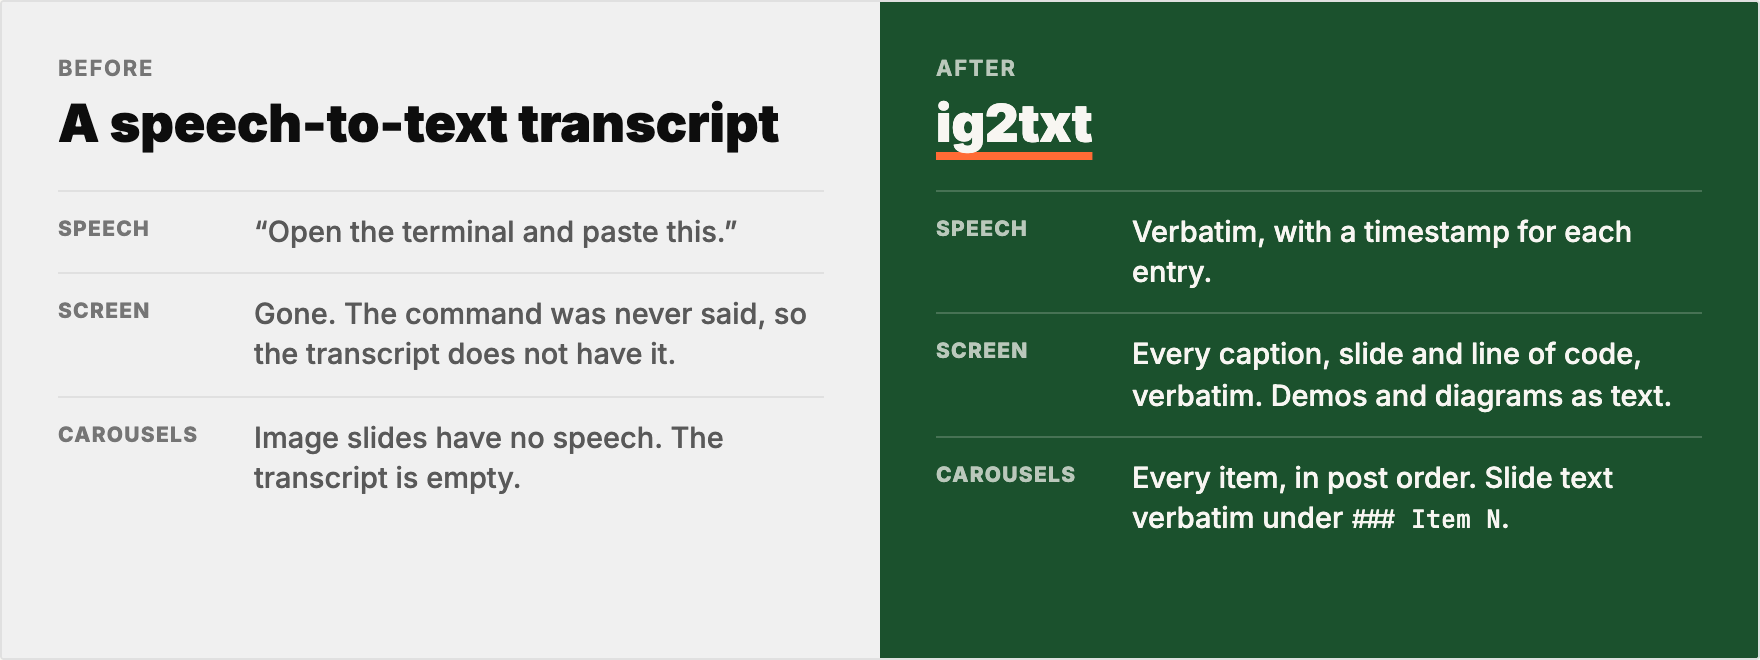
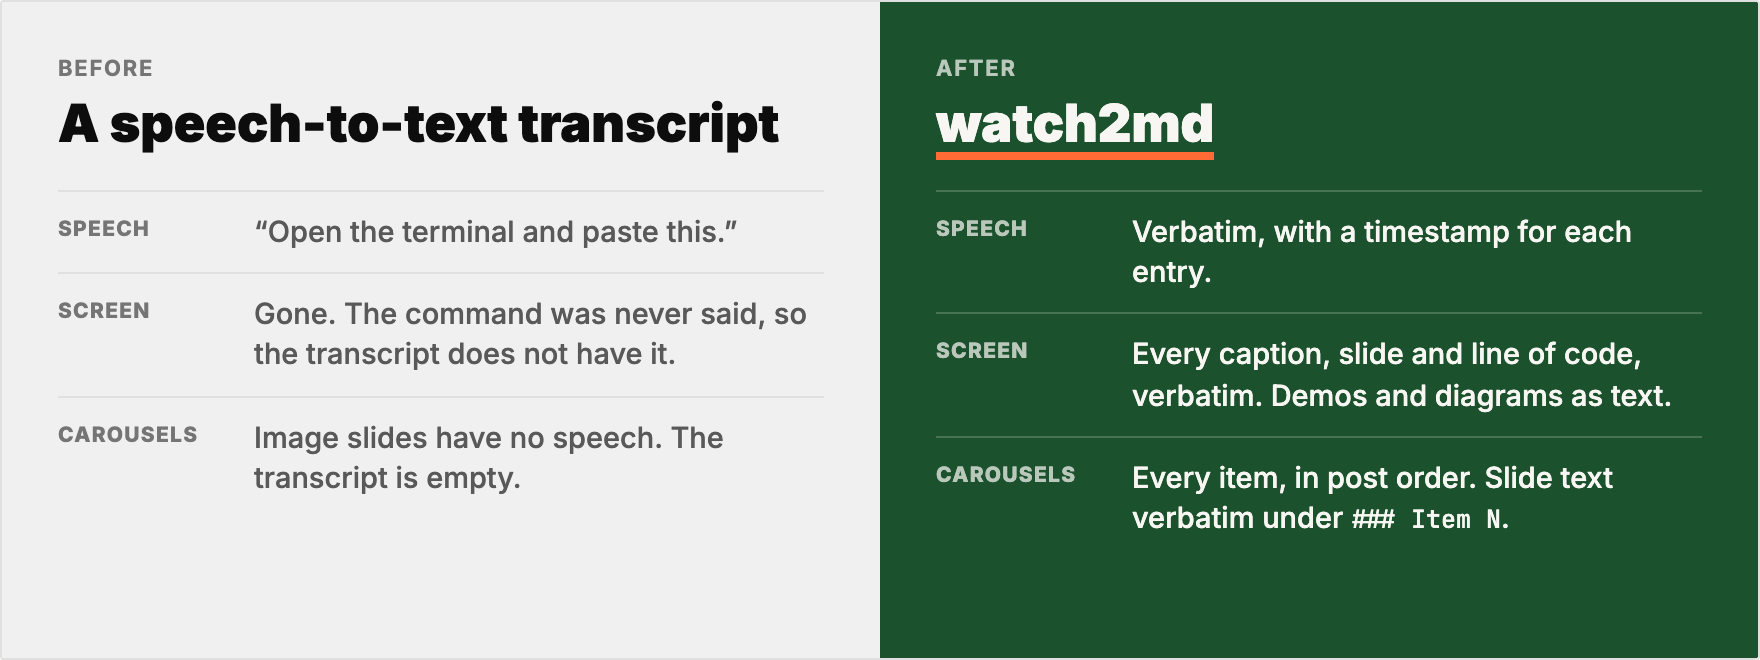
Rename to watch2md

Changed region(s): [[0.5312, 0.1515, 0.6875, 0.2424]]

diff --git a/README.md b/README.md
@@ -1,4 +1,4 @@
-<h1 align="center">ig2txt</h1>
+<h1 align="center">watch2md</h1>
 
 <p align="center">
   <strong>Turn short videos into knowledge your AI agent can use: what is said, and what is only on screen.</strong>
@@ -13,12 +13,12 @@
 </p>
 
 <p align="center">
-  <img src="assets/hero.png" width="880" alt="An invented example reel, 38 seconds. On screen: the caption 'Disk full? 1 command' and a terminal with the command du -sh ~/* | sort -h | tail -5, which lists five folders by size, with Downloads last at 48G. The speech only says: Open the terminal and paste this. ig2txt turns the reel link into a note. Its Timeline has each SAID, ON SCREEN and SHOWN entry with a timestamp. Its 'Shown, not said' section has the command and the 48G Downloads folder. The command is never said. The note has it.">
+  <img src="assets/hero.png" width="880" alt="An invented example reel, 38 seconds. On screen: the caption 'Disk full? 1 command' and a terminal with the command du -sh ~/* | sort -h | tail -5, which lists five folders by size, with Downloads last at 48G. The speech only says: Open the terminal and paste this. watch2md turns the reel link into a note. Its Timeline has each SAID, ON SCREEN and SHOWN entry with a timestamp. Its 'Shown, not said' section has the command and the 48G Downloads folder. The command is never said. The note has it.">
 </p>
 
-Short videos teach a lot: a prompt, a command, a framework on a slide, a tool in a demo. Much of it is only on screen. Give your agent the link to a reel, a TikTok, a YouTube video or an Instagram carousel. Your agent runs `ig2txt "<url>"` and gets a markdown note with the speech and with all that the video shows: captions, slides, code, UI demos and diagrams. Then your agent puts that knowledge into your skills, playbooks and notes.
+Short videos teach a lot: a prompt, a command, a framework on a slide, a tool in a demo. Much of it is only on screen. Give your agent the link to a reel, a TikTok, a YouTube video or an Instagram carousel. Your agent runs `watch2md "<url>"` and gets a markdown note with the speech and with all that the video shows: captions, slides, code, UI demos and diagrams. Then your agent puts that knowledge into your skills, playbooks and notes.
 
-A transcript tool hears the speech only. In a reel that says *"paste this"* and shows the command on screen, the transcript has no command. An image carousel has no speech, so a transcript is empty. ig2txt sends every item to Gemini, which watches the video and reads each slide.
+A transcript tool hears the speech only. In a reel that says *"paste this"* and shows the command on screen, the transcript has no command. An image carousel has no speech, so a transcript is empty. watch2md sends every item to Gemini, which watches the video and reads each slide.
 
 > **AI agents:** read [`AGENTS.md`](AGENTS.md). It is the complete protocol.
 
@@ -27,13 +27,13 @@ A transcript tool hears the speech only. In a reel that says *"paste this"* and 
 ## Before and after
 
 <p align="center">
-  <img src="assets/before-after.png" width="880" alt="Before: a speech-to-text transcript. Speech: Open the terminal and paste this. Screen: gone, the command was never said, so the transcript does not have it. Carousels: image slides have no speech, so the transcript is empty. After: ig2txt. Speech: verbatim, with a timestamp for each entry. Screen: every caption, slide and line of code, verbatim, and demos and diagrams as text. Carousels: every item, in post order, with slide text verbatim under ### Item N.">
+  <img src="assets/before-after.png" width="880" alt="Before: a speech-to-text transcript. Speech: Open the terminal and paste this. Screen: gone, the command was never said, so the transcript does not have it. Carousels: image slides have no speech, so the transcript is empty. After: watch2md. Speech: verbatim, with a timestamp for each entry. Screen: every caption, slide and line of code, verbatim, and demos and diagrams as text. Carousels: every item, in post order, with slide text verbatim under ### Item N.">
 </p>
 
 ## How it works
 
 <p align="center">
-  <img src="assets/how-it-works.png" width="880" alt="Four steps. 1, you or your agent give ig2txt a link. 2, ig2txt downloads it: Instagram through gallery-dl, videos and images, other sites through yt-dlp up to 720p, with browser cookies if the site needs a login. 3, Gemini watches every item in one request, in post order, at high resolution. 4, ig2txt writes one markdown file in your notes folder and deletes the downloads and the Gemini uploads. Fallback: with no Gemini key, or when video mode fails, ig2txt transcribes the speech with Whisper and marks the note mode: audio.">
+  <img src="assets/how-it-works.png" width="880" alt="Four steps. 1, you or your agent give watch2md a link. 2, watch2md downloads it: Instagram through gallery-dl, videos and images, other sites through yt-dlp up to 720p, with browser cookies if the site needs a login. 3, Gemini watches every item in one request, in post order, at high resolution. 4, watch2md writes one markdown file in your notes folder and deletes the downloads and the Gemini uploads. Fallback: with no Gemini key, or when video mode fails, watch2md transcribes the speech with Whisper and marks the note mode: audio.">
 </p>
 
 ```
@@ -76,7 +76,7 @@ The prompt tells Gemini to write `[illegible]` for text it cannot read, and neve
 
 ## Who it is for
 
-| You | You do today | ig2txt adds |
+| You | You do today | watch2md adds |
 |---|---|---|
 | Build AI skills, prompts and playbooks | You watch a video, then retype the steps by hand | A note your agent turns into a skill or a playbook entry |
 | Use an AI agent every day | Your agent cannot open a video link | One command that your agent runs from any folder |
@@ -90,14 +90,14 @@ You need `bash`, `curl`, `jq`, `ffmpeg`, `yt-dlp`, and `gallery-dl` for Instagra
 
 ```sh
 brew install jq ffmpeg yt-dlp gallery-dl   # Linux: your package manager, and pip install yt-dlp gallery-dl
-git clone https://github.com/4arkin/ig2txt.git
-ln -s "$PWD/ig2txt/ig2txt" /opt/homebrew/bin/ig2txt   # or /usr/local/bin, any folder always on PATH
+git clone https://github.com/4arkin/watch2md.git
+ln -s "$PWD/watch2md/watch2md" /opt/homebrew/bin/watch2md   # or /usr/local/bin, any folder always on PATH
 ```
 
 Get a Gemini API key at https://aistudio.google.com/apikey. On macOS, keep it in the Keychain, where agent shells can read it:
 
 ```sh
-security add-generic-password -a "$USER" -s ig2txt-gemini-api-key -w
+security add-generic-password -a "$USER" -s watch2md-gemini-api-key -w
 ```
 
 Elsewhere, export `GEMINI_API_KEY`.
@@ -105,9 +105,9 @@ Elsewhere, export `GEMINI_API_KEY`.
 ## Use
 
 ```sh
-ig2txt "https://www.instagram.com/reel/<id>/"
-ig2txt "https://www.instagram.com/p/<id>/"    # carousel: videos, images, or both
-ig2txt --audio-only "<url>"                   # speech only, through OpenAI Whisper
+watch2md "https://www.instagram.com/reel/<id>/"
+watch2md "https://www.instagram.com/p/<id>/"    # carousel: videos, images, or both
+watch2md --audio-only "<url>"                   # speech only, through OpenAI Whisper
 ```
 
 ### Let your agent use it
@@ -116,7 +116,7 @@ Paste this into `CLAUDE.md`, `AGENTS.md` or `GEMINI.md` in your home or project 
 
 ```markdown
 ## Video URLs
-Any Instagram post, reel or carousel (videos, images or both), and any TikTok / YouTube / LinkedIn / X video URL → `ig2txt "<url>"` via the shell, from any folder. Never a scraper or the browser.
+Any Instagram post, reel or carousel (videos, images or both), and any TikTok / YouTube / LinkedIn / X video URL → `watch2md "<url>"` via the shell, from any folder. Never a scraper or the browser.
 ```
 
 Then send a link to your agent. The full protocol is in [AGENTS.md](AGENTS.md).
@@ -125,11 +125,11 @@ Then send a link to your agent. The full protocol is in [AGENTS.md](AGENTS.md).
 
 | Variable | Default | Does |
 |---|---|---|
-| `GEMINI_API_KEY` | Keychain `ig2txt-gemini-api-key` | Video mode. With no key, ig2txt uses audio-only mode. |
+| `GEMINI_API_KEY` | Keychain `watch2md-gemini-api-key` | Video mode. With no key, watch2md uses audio-only mode. |
 | `OPENAI_API_KEY` | none | Audio-only mode, and the fallback when video mode fails. |
-| `IG2TXT_OUT` | current folder | Where notes go. |
-| `IG2TXT_BROWSER` | `chrome` | Browser for login cookies (`brave`, `firefox`, `edge`, `safari`). Empty turns the cookie retry off. |
-| `IG2TXT_GEMINI_MODEL` | `gemini-flash-latest` | Gemini model. |
+| `WATCH2MD_OUT` | current folder | Where notes go. |
+| `WATCH2MD_BROWSER` | `chrome` | Browser for login cookies (`brave`, `firefox`, `edge`, `safari`). Empty turns the cookie retry off. |
+| `WATCH2MD_GEMINI_MODEL` | `gemini-flash-latest` | Gemini model. |
 
 ## Cost
 
@@ -141,16 +141,16 @@ An 80-second reel is about 45K input tokens on Gemini Flash, roughly $0.05. An 8
 A transcript has the speech only. The command in a coding reel, the text on a slide and the numbers in a demo are often on screen and not in the speech. Those go to the "Shown, not said" section.
 
 **Does it work on image carousels?**
-Yes. ig2txt downloads every Instagram post with gallery-dl, so image slides, video items and mixed carousels all work. Each item gets a `### Item N` block, and the slide text is verbatim.
+Yes. watch2md downloads every Instagram post with gallery-dl, so image slides, video items and mixed carousels all work. Each item gets a `### Item N` block, and the slide text is verbatim.
 
 **Why does macOS ask for a password?**
-Instagram needs a login, so ig2txt reads your browser's cookies. macOS asks for access to "Chrome Safe Storage". Click **Allow**, not **Always Allow**. ig2txt then keeps only that site's cookies in the Keychain, so the prompt comes once per site. On Linux there is no cookie cache.
+Instagram needs a login, so watch2md reads your browser's cookies. macOS asks for access to "Chrome Safe Storage". Click **Allow**, not **Always Allow**. watch2md then keeps only that site's cookies in the Keychain, so the prompt comes once per site. On Linux there is no cookie cache.
 
 **What if Gemini fails?**
-ig2txt falls back to Whisper, which transcribes the speech only. The note then has `mode: audio` and has no on-screen content. Audio-only mode needs `OPENAI_API_KEY`.
+watch2md falls back to Whisper, which transcribes the speech only. The note then has `mode: audio` and has no on-screen content. Audio-only mode needs `OPENAI_API_KEY`.
 
 **What about long YouTube videos?**
-Over 20 minutes, ig2txt sends the YouTube link instead of a download, at standard resolution, so the video fits the context window.
+Over 20 minutes, watch2md sends the YouTube link instead of a download, at standard resolution, so the video fits the context window.
 
 **Can it read a full profile?**
 No. Collect the reel URLs from the profile's `/reels/` page in a browser, then run them one at a time, with about 20 seconds between runs.
@@ -167,7 +167,7 @@ The test runs offline. It replaces yt-dlp, gallery-dl, ffmpeg and the Gemini API
 
 | Path | What |
 |---|---|
-| `ig2txt` | The script |
+| `watch2md` | The script |
 | [`AGENTS.md`](AGENTS.md) | The protocol your agent follows, and the snippet for your agent's instructions |
 | [`GOTCHAS.md`](GOTCHAS.md) | Carousels, cookies, Gemini, Whisper and agent shells: known traps, and the fix for each |
 | `tests/` | `bash tests/test.sh`, offline |

diff --git a/GOTCHAS.md b/GOTCHAS.md
@@ -3,16 +3,16 @@
 ## Carousels
 
 - **A carousel goes to Gemini as one request**: videos, images, or both. Each item is labelled `Item N`, in post order. The Timeline splits into `### Item N` blocks. Video items get timestamps that restart at `[00:00]`; image items get their text verbatim under ON SCREEN and their visuals under SHOWN. The frontmatter gets `items: N`. The note is named after the post id.
-- **yt-dlp cannot download Instagram images.** On an image post it returns empty items ("No video formats found"), and a cookie retry then reports "login required". That is why ig2txt downloads every Instagram URL with gallery-dl, and other sites with yt-dlp.
+- **yt-dlp cannot download Instagram images.** On an image post it returns empty items ("No video formats found"), and a cookie retry then reports "login required". That is why watch2md downloads every Instagram URL with gallery-dl, and other sites with yt-dlp.
 - **gallery-dl runs with `videos=merged`.** Its default first tries the Instagram DASH stream through the yt-dlp Python module. A standalone gallery-dl install (Homebrew) does not have that module, prints `Cannot import yt-dlp`, and only then falls back to the plain MP4. `videos=merged` takes the plain MP4, with sound, directly.
 - **Image slides are cheap.** An 8-slide carousel costs about 9K input tokens, less than one 80-second reel.
-- **Audio-only mode on a carousel** transcribes each item under `## Item N`. Image items and items with no sound track show as `(no sound track)`; items with music only show as `(no speech)`. When no item has speech, ig2txt writes no file and says so.
+- **Audio-only mode on a carousel** transcribes each item under `## Item N`. Image items and items with no sound track show as `(no sound track)`; items with music only show as `(no speech)`. When no item has speech, watch2md writes no file and says so.
 
 ## Instagram and cookies
 
-- **Instagram needs a login.** The public fetch fails for almost every post. ig2txt then reads your browser's cookies (`IG2TXT_BROWSER`, default `chrome`). yt-dlp and gallery-dl use the same cached cookies.
+- **Instagram needs a login.** The public fetch fails for almost every post. watch2md then reads your browser's cookies (`WATCH2MD_BROWSER`, default `chrome`). yt-dlp and gallery-dl use the same cached cookies.
 - **The macOS keychain prompt.** Reading Chrome cookies makes macOS ask for your password ("security wants to access Chrome Safe Storage"). Click **Allow**, not **Always Allow**: "Always Allow" opens every Chrome cookie and saved password to any later read.
-- **One prompt per site, not per video.** After the first read, ig2txt keeps only that site's cookies in the Keychain, as `ig2txt-cookies-<site>` (for example `ig2txt-cookies-instagram.com`). When you log out or the session expires, delete it: `security delete-generic-password -s ig2txt-cookies-instagram.com`.
+- **One prompt per site, not per video.** After the first read, watch2md keeps only that site's cookies in the Keychain, as `watch2md-cookies-<site>` (for example `watch2md-cookies-instagram.com`). When you log out or the session expires, delete it: `security delete-generic-password -s watch2md-cookies-instagram.com`.
 - **On Linux there is no cookie cache.** Each login-required fetch reads the browser again.
 - **Run batches one video at a time, with about 20 seconds between them.** Fast bulk pulls on a logged-in account can hit an Instagram rate limit.
 - **yt-dlp cannot list a profile's reels.** Collect the reel URLs from the profile's `/reels/` page in a browser.
@@ -20,18 +20,18 @@
 
 ## Gemini
 
-- **Small on-screen text needs high resolution.** At the default resolution Gemini misread small digits (a date, a unit). ig2txt sends `MEDIA_RESOLUTION_HIGH` for videos up to 20 minutes, and 2 frames per second for clips up to 3 minutes. An 80-second reel costs about 45K input tokens, roughly $0.05.
-- **Long YouTube videos go by URL.** Over 20 minutes, ig2txt passes the YouTube link instead of a download, at standard resolution, so the video fits the context window. The resolution setting has no effect on YouTube links, so shorter YouTube videos are downloaded and uploaded.
+- **Small on-screen text needs high resolution.** At the default resolution Gemini misread small digits (a date, a unit). watch2md sends `MEDIA_RESOLUTION_HIGH` for videos up to 20 minutes, and 2 frames per second for clips up to 3 minutes. An 80-second reel costs about 45K input tokens, roughly $0.05.
+- **Long YouTube videos go by URL.** Over 20 minutes, watch2md passes the YouTube link instead of a download, at standard resolution, so the video fits the context window. The resolution setting has no effect on YouTube links, so shorter YouTube videos are downloaded and uploaded.
 - **HTTP 402 "prepayment credits are depleted"** means the Gemini project needs credit. The key is fine.
-- **`gemini-flash-latest` is an alias** and moves to new models. Pin a model with `IG2TXT_GEMINI_MODEL`.
+- **`gemini-flash-latest` is an alias** and moves to new models. Pin a model with `WATCH2MD_GEMINI_MODEL`.
 - **Uploads are deleted after each run.** The Files API would otherwise keep them for 48 hours.
 
 ## Audio-only mode (Whisper)
 
-- **Whisper invents text over music** ("Thanks for watching.", subtitle credits, "♪♪"). ig2txt drops segments with a high no-speech score, and segments with no letters.
-- **The audio limit is 25 MB**, about 30 minutes. ig2txt does not split longer audio.
+- **Whisper invents text over music** ("Thanks for watching.", subtitle credits, "♪♪"). watch2md drops segments with a high no-speech score, and segments with no letters.
+- **The audio limit is 25 MB**, about 30 minutes. watch2md does not split longer audio.
 
 ## Agents (Claude Code, Codex, Gemini CLI)
 
 - **Agent shells do not read `~/.zshrc`.** A `PATH` entry or an exported `GEMINI_API_KEY` there is invisible to the agent. Put a symlink in a folder that is always on `PATH` (`/opt/homebrew/bin` or `/usr/local/bin`), and on macOS keep the key in the Keychain (see README).
-- **Notes go to the current folder.** Set `IG2TXT_OUT` to one notes folder, so an agent in any project writes to the same place.
+- **Notes go to the current folder.** Set `WATCH2MD_OUT` to one notes folder, so an agent in any project writes to the same place.

diff --git a/AGENTS.md b/AGENTS.md
@@ -1,20 +1,20 @@
 # AGENTS.md
 
-You help a person capture videos and Instagram carousels as notes with `ig2txt`. One command turns a URL into a markdown note in `IG2TXT_OUT`.
+You help a person capture videos and Instagram carousels as notes with `watch2md`. One command turns a URL into a markdown note in `WATCH2MD_OUT`.
 
 ## Setup check
 
-1. Run `command -v ig2txt yt-dlp gallery-dl ffmpeg jq`. Install what is missing (README, Install).
-2. Make sure a Gemini key is reachable: `GEMINI_API_KEY` in your shell, or on macOS the Keychain item `ig2txt-gemini-api-key`. Ask the person to add the key themselves. Never echo a key, put it in a command line, or write it to a file.
-3. Ask where notes should go, and have the person set `IG2TXT_OUT` in their shell profile. Without it, notes go to the current folder.
+1. Run `command -v watch2md yt-dlp gallery-dl ffmpeg jq`. Install what is missing (README, Install).
+2. Make sure a Gemini key is reachable: `GEMINI_API_KEY` in your shell, or on macOS the Keychain item `watch2md-gemini-api-key`. Ask the person to add the key themselves. Never echo a key, put it in a command line, or write it to a file.
+3. Ask where notes should go, and have the person set `WATCH2MD_OUT` in their shell profile. Without it, notes go to the current folder.
 
 ## Rules
 
-- **Any Instagram post or reel (video, image or carousel), and any TikTok, YouTube, LinkedIn or X video URL, goes to `ig2txt "<url>"`.** Do not use a scraper, a transcript website or a browser instead.
+- **Any Instagram post or reel (video, image or carousel), and any TikTok, YouTube, LinkedIn or X video URL, goes to `watch2md "<url>"`.** Do not use a scraper, a transcript website or a browser instead.
 - **Read the note, not the console.** The last line before the note is `→ <path>`. Answer from the note's Takeaways, Timeline and "Shown, not said".
 - **One video at a time.** For a list of URLs, run them in sequence with about 20 seconds between runs.
-- **Say what failed.** If ig2txt fell back to audio-only mode, the note has `mode: audio` and has no on-screen content. Tell the person.
-- **A macOS password prompt for "Chrome Safe Storage"** is ig2txt reading login cookies. Tell the person to click Allow, never Always Allow.
+- **Say what failed.** If watch2md fell back to audio-only mode, the note has `mode: audio` and has no on-screen content. Tell the person.
+- **A macOS password prompt for "Chrome Safe Storage"** is watch2md reading login cookies. Tell the person to click Allow, never Always Allow.
 
 ## Add this to your agent's instructions
 
@@ -22,5 +22,5 @@ Paste into `CLAUDE.md`, `AGENTS.md` or `GEMINI.md` in your home or project folde
 
 ```markdown
 ## Video URLs
-Any Instagram post, reel or carousel (videos, images or both), and any TikTok / YouTube / LinkedIn / X video URL → `ig2txt "<url>"` via the shell, from any folder. Never a scraper or the browser.
+Any Instagram post, reel or carousel (videos, images or both), and any TikTok / YouTube / LinkedIn / X video URL → `watch2md "<url>"` via the shell, from any folder. Never a scraper or the browser.
 ```

diff --git a/CLAUDE.md b/CLAUDE.md
@@ -1,1 +1,1 @@
-Read AGENTS.md. It is the complete protocol for using ig2txt.
+Read AGENTS.md. It is the complete protocol for using watch2md.

diff --git a/GEMINI.md b/GEMINI.md
@@ -1,1 +1,1 @@
-Read AGENTS.md. It is the complete protocol for using ig2txt.
+Read AGENTS.md. It is the complete protocol for using watch2md.
